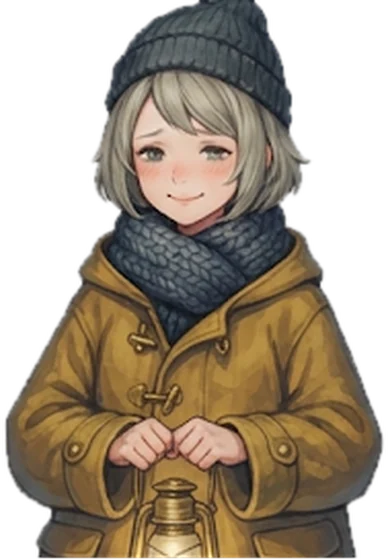
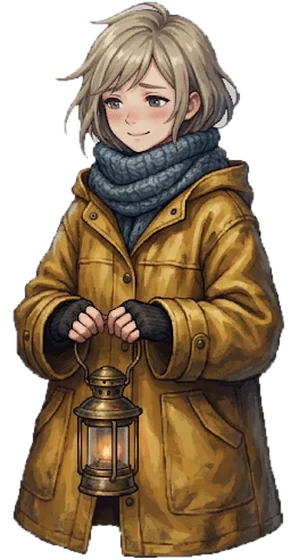
第三章美術換新：米菈立繪（不戴帽）、三張劇情背景、磁鐵礦與木棧道材質、高斯港民宅正面
Claude-Session: https://claude.ai/code/session_01FbNvAsiMsj4QEFqcfpKWWs

diff --git a/index.html b/index.html
@@ -6184,7 +6184,7 @@ function chapter3End(){
 
 /* ======================= CHAPTER 3 — FREE MAPS: 飛艇碼頭 · 高斯港下城區 · 磁軌礦坑 · 避雷塔 ======================= */
 Object.assign(PROP_AR,{pr_signal:.42,pr_pylon:.61,pr_rod:.45,pr_bollard:1.44,pr_chain:1.86,pr_railcart:1.35});
-Object.assign(ENV_AR,{fp_gauss:.559});
+Object.assign(ENV_AR,{fp_gauss:1.79});
 const c3m=(n,rx,ry,o={})=>envMat(n,rx,ry,Object.assign({emissiveIntensity:0},o));
 const c3col=(rx,ry,col=0x6a7488)=>mat2('brick2',rx,ry,{color:col});
 /* narrow stone townhouse with the painted facade on its door side and a flat tin roof */

diff --git a/src/chapter3/maps.js b/src/chapter3/maps.js
@@ -1,6 +1,6 @@
 /* ======================= CHAPTER 3 — FREE MAPS: 飛艇碼頭 · 高斯港下城區 · 磁軌礦坑 · 避雷塔 ======================= */
 Object.assign(PROP_AR,{pr_signal:.42,pr_pylon:.61,pr_rod:.45,pr_bollard:1.44,pr_chain:1.86,pr_railcart:1.35});
-Object.assign(ENV_AR,{fp_gauss:.559});
+Object.assign(ENV_AR,{fp_gauss:1.79});
 const c3m=(n,rx,ry,o={})=>envMat(n,rx,ry,Object.assign({emissiveIntensity:0},o));
 const c3col=(rx,ry,col=0x6a7488)=>mat2('brick2',rx,ry,{color:col});
 /* narrow stone townhouse with the painted facade on its door side and a flat tin roof */
